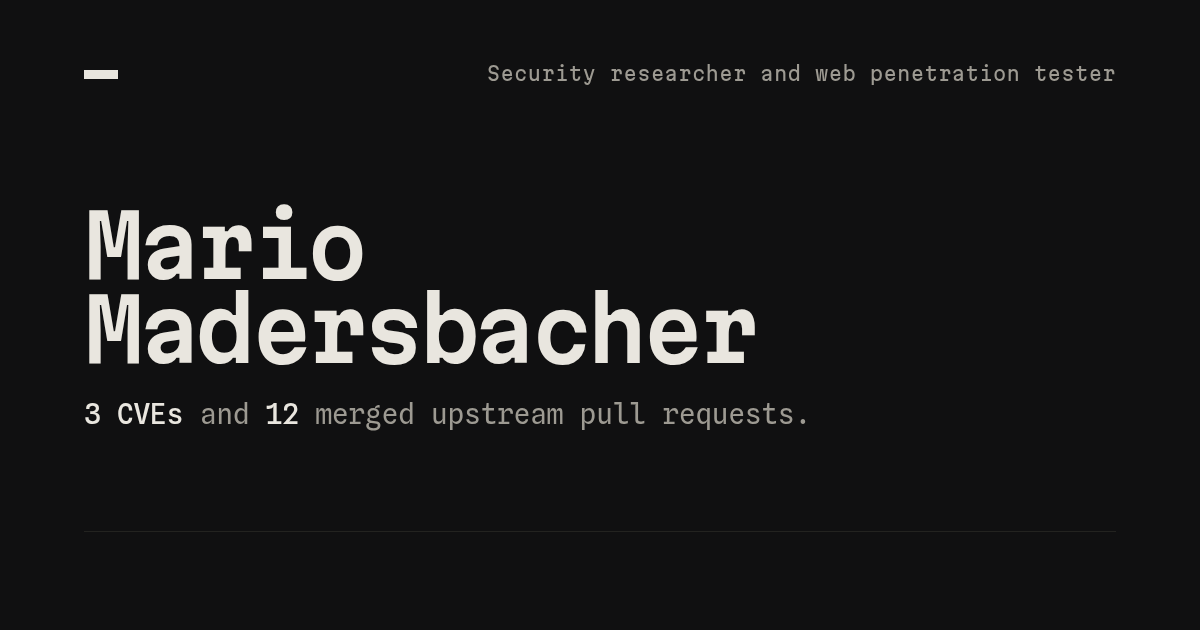
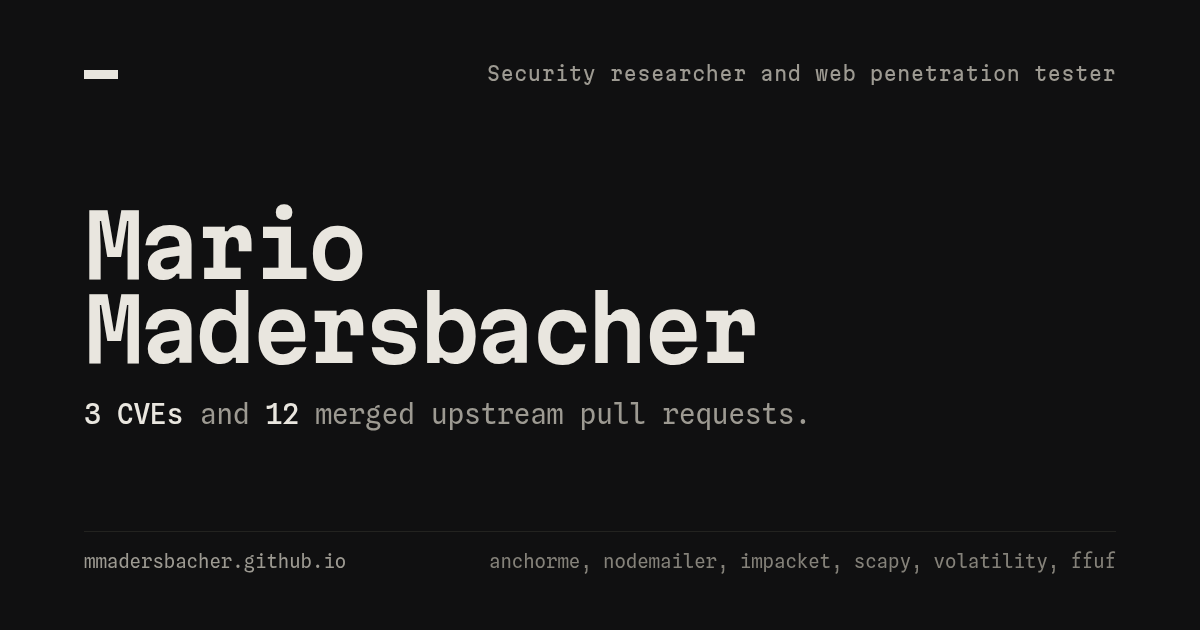
Render og.png through a script that crops, the footer was being clipped
Headless Chromium cuts the bottom ~75px of a 630px window, so the preview
image lost its footer line. tools/render-og.sh renders at 900px and crops to
1200x630, and refuses to write an image without the footer.

Changed region(s): [[0.4008, 0.8746, 0.8633, 0.9048], [0.0617, 0.8746, 0.2775, 0.9048], [0.8942, 0.8746, 0.925, 0.9048]]

diff --git a/tools/personal-og.html b/tools/personal-og.html
@@ -1,8 +1,6 @@
 <!doctype html>
-<!-- Source of site/og.png (link preview). Render:
-  chromium --headless=new --no-sandbox --allow-file-access-from-files --force-device-scale-factor=1 \
-    --window-size=1200,630 --virtual-time-budget=4000 --screenshot=site/og.png tools/personal-og.html
--->
+<!-- Source of site/og.png (link preview). Render with tools/render-og.sh
+     (renders taller and crops; a 630px-high headless window clips the footer). -->
 <html lang="en"><head><meta charset="utf-8">
 <style>
   @font-face{font-family:"Martian Mono";font-weight:400 800;src:url(../site/fonts/MartianMono-latin.woff2) format("woff2")}

diff --git a/AGENTS.md b/AGENTS.md
@@ -129,4 +129,4 @@ under a minute. Every claim links to its public record (CVE record, advisory, PR
   `--ink-3` must stay ≥ 4.5:1 on `--bg` in both themes or the test fails.
 - `site/writeups/` is a static list (POSTS array in its index.html); new articles come from
   `tools/writeup-template.html`. `site/og.png` is rendered from `tools/personal-og.html`
-  (command in that file's header comment).
+  by `tools/render-og.sh` (renders taller, crops to 1200×630; a 630px headless window clips the footer).
